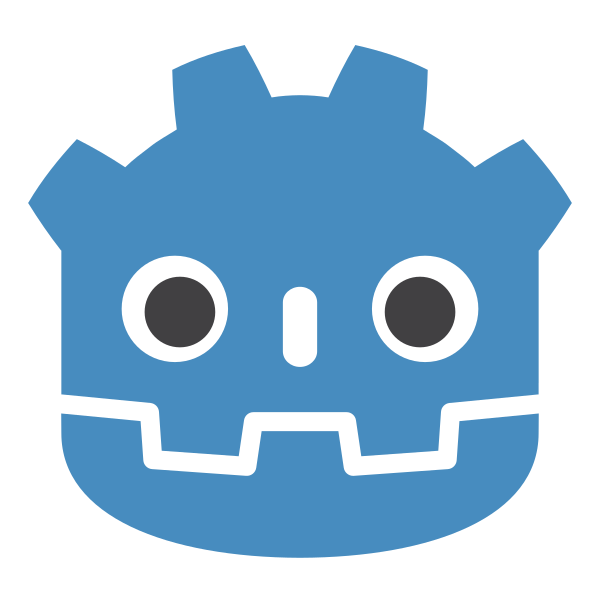
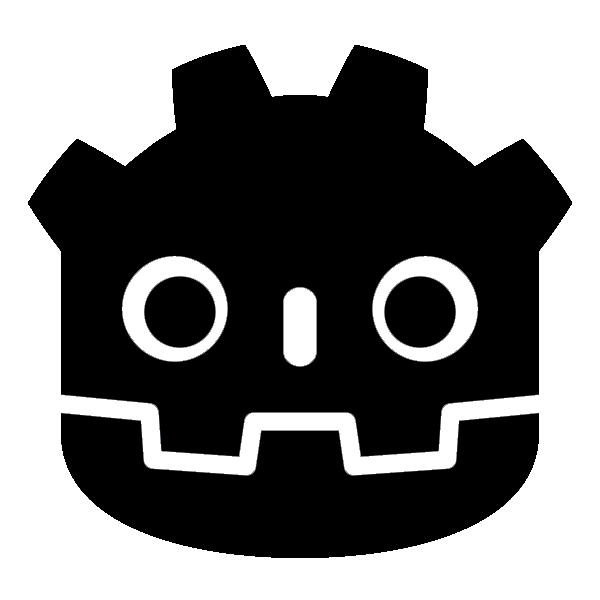
Change color palette and make small adjustments.

diff --git a/index.html b/index.html
@@ -18,11 +18,14 @@
       rel="stylesheet"
     />
     <link rel="stylesheet" href="style.css" />
-    <title>Portfolio</title>
+    <title>Juuso Melentjeff |Portfolio</title>
   </head>
   <body>
     <div class="container">
-      <h1>School Projects</h1>
+      <header>
+        <h1 class="header-text">JUUSO MELENTJEFF | PORTFOLIO</h1>
+      </header>
+      <h1 class="small-header-text">School Projects</h1>
       <section class="cards">
         <div class="card">
           <div class="statusbar">
@@ -34,7 +37,7 @@
             <div class="text">
               <h2>King's Feast</h2>
               <p>
-                Android game about a royal cook serving food to royal guests by hurling the plates to guests
+                An android game about a royal cook serving food to royal guests by hurling the plates to them
               </p>
               </div>
               <div class="tech">
@@ -42,6 +45,7 @@
                 <i class="fab fa-java fa-2x"></i>
               </div>
               <div class="links">
+                <h4>Links</h4>
                 <a href="https://github.com/IkuinenPadawan/KingsFeast"><i class="fa-brands fa-github fa-2x"></i></a>
                 <a
                   href="https://www.youtube.com/watch?v=AmlCnWLfUN8"
@@ -67,7 +71,7 @@
             <div class="text">
               <h2>Todo application</h2>
               <p>
-                Full stack todo/deadline application. User is able to add todos and school deadlines for easy tracking
+                A full stack todo/deadline application. User is able to add todos and school deadlines for easy tracking
               </p>
             </div>
             <div class="tech">
@@ -76,6 +80,7 @@
               <i class="fab fa-node fa-2x"></i>
             </div>
             <div class="links">
+               <h4>Links</h4>
               <a
                 href="https://github.com/IkuinenPadawan/Todo-Frontend"
                 target="_blank"
@@ -95,14 +100,15 @@
             <div class="text">
               <h2>Futuristic Weather Dashboard</h2>
               <p>
-                Small android application that displays the weather of user's location
+                A small android application that displays the weather of user's location
               </p>
             </div>
             <div class="tech">
               <h4>Tech used</h4>
-              <img src="./assets/Kotlin_Icon.png" alt="" width="28">
+              <i class="fab fa-android fa-2x"></i>
             </div>
             <div class="links">
+               <h4>Links</h4>
               <a
                 href="https://github.com/IkuinenPadawan/faleev-system"
                 target="_blank"
@@ -112,7 +118,7 @@
           </div>
         </div>
       </section>
-      <h1>Freetime projects</h1>
+      <h1 class="small-header-text">Freetime projects</h1>
       <section class="cards">
         <div class="card">
           <div class="statusbar">
@@ -124,7 +130,7 @@
             <div class="text">
               <h2>Author website</h2>
               <p>
-                A Wordpress website for a Finnish author
+                A Wordpress homepage for a Finnish author
               </p>
             </div>
             <div class="tech">
@@ -132,8 +138,8 @@
               <i class="fab fa-wordpress fa-2x"></i>
             </div>
             <div class="links">
+               <h4>Links</h4>
               <a href="https://www.jaakkomelentjeff.fi/" target="_blank"><i class="fas fa-globe fa-2x"></i></a>
-
             </div>
           </div>
         </div>
@@ -147,7 +153,7 @@
             <div class="text">
               <h2>Tarkov Loot Tool</h2>
               <p>
-                A full stack project that aims to help in tracking what loot items to save for quests and hideout upgrades in the game Escape From Tarkov
+                A full stack project that helps with tracking what loot items to save for future quests and hideout upgrades in the game Escape From Tarkov
               </p>
             </div>
             <div class="tech">
@@ -156,6 +162,7 @@
               <i class="fab fa-node fa-2x"></i>
             </div>
             <div class="links">
+               <h4>Links</h4>
               <a href="https://github.com/IkuinenPadawan/tarkov-loot-helper" target="_blank"><i class="fa-brands fa-github fa-2x"></i></a>
               <a href="https://tarkov-loot-tool.herokuapp.com/" target="_blank"><i class="fas fa-globe fa-2x"></i></a>
             </div>
@@ -169,9 +176,9 @@
           </div>
           <div class="card-content">
             <div class="text">
-              <h2>Self-Serve Emperor</h2>
+              <h2>Self Serve Emperor</h2>
               <p>
-                A game project built with Godot Engine about collecting cardboards pallets in a warehouse. Humor project for old co-workers
+                A game project built with Godot Engine about collecting cardboard pallets in a warehouse. Humorous project made for old co-workers
               </p>
             </div>
             <div class="tech">
@@ -179,6 +186,7 @@
               <img src="./assets/godoticon.png" alt="Godot Game Engine Icon" width="30">
             </div>
             <div class="links">
+               <h4>Links</h4>
               <a href="https://github.com/IkuinenPadawan/self-serve-emperor" target="_blank"><i class="fa-brands fa-github fa-2x"></i></a>
             </div>
           </div>

diff --git a/style.css b/style.css
@@ -11,12 +11,31 @@ body {
 .container {
   width: 100%;
   height: 100vh;
-  background: #333;
+  /* background: #222831; */
+  background: #222831;
   text-align: center;
 }
 
 .container h1 {
   color: #fff;
+  font-weight: 400;
+}
+
+header {
+  padding: 4rem 0 3rem 0;
+  justify-content: center;
+  background-color: #222831;
+}
+
+.header-text {
+  font-size: 3rem;
+  font-weight: 300;
+  letter-spacing: 0.7rem;
+  margin: 0;
+}
+
+.small-header-text {
+  margin-top: 1rem;
 }
 
 .cards {
@@ -27,15 +46,11 @@ body {
 }
 
 .card {
-  background: #555;
-  height: 250px;
+  background: #393e46;
+  height: 270px;
   width: 400px;
   border-radius: 20px;
   margin: 1rem;
-}
-
-.card:hover {
-  background: #fff;
 }
 
 .card-content {
@@ -67,7 +82,20 @@ i {
 }
 
 .links {
-  margin-top: 1rem;
+  margin-top: 0.4rem;
+}
+
+.links h4 {
+  margin-bottom: 0.3rem;
+}
+
+.links i {
+  color: #eeeeee;
+  transition: color 0.5s;
+}
+
+.links i:hover {
+  color: #00adb5;
 }
 
 .statusbar {
@@ -79,7 +107,7 @@ i {
 .status {
   /* margin: 0 7rem; */
   width: 30%;
-  background-color: rgb(0, 206, 0);
+  background-color: white;
   border-bottom-left-radius: 5px;
   border-bottom-right-radius: 5px;
 }
@@ -90,5 +118,5 @@ i {
 }
 
 .wip {
-  background-color: yellow;
+  background-color: grey;
 }
